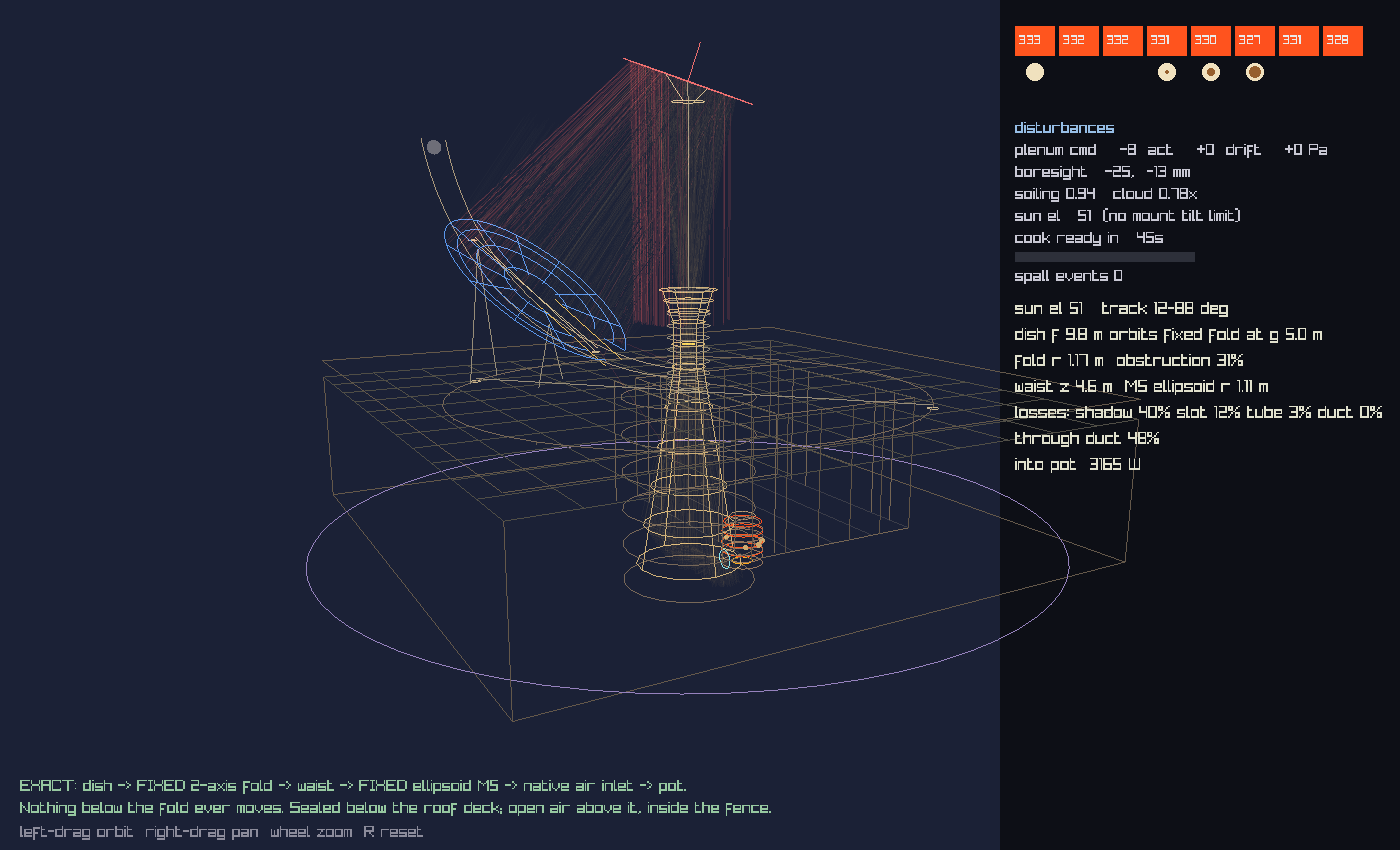
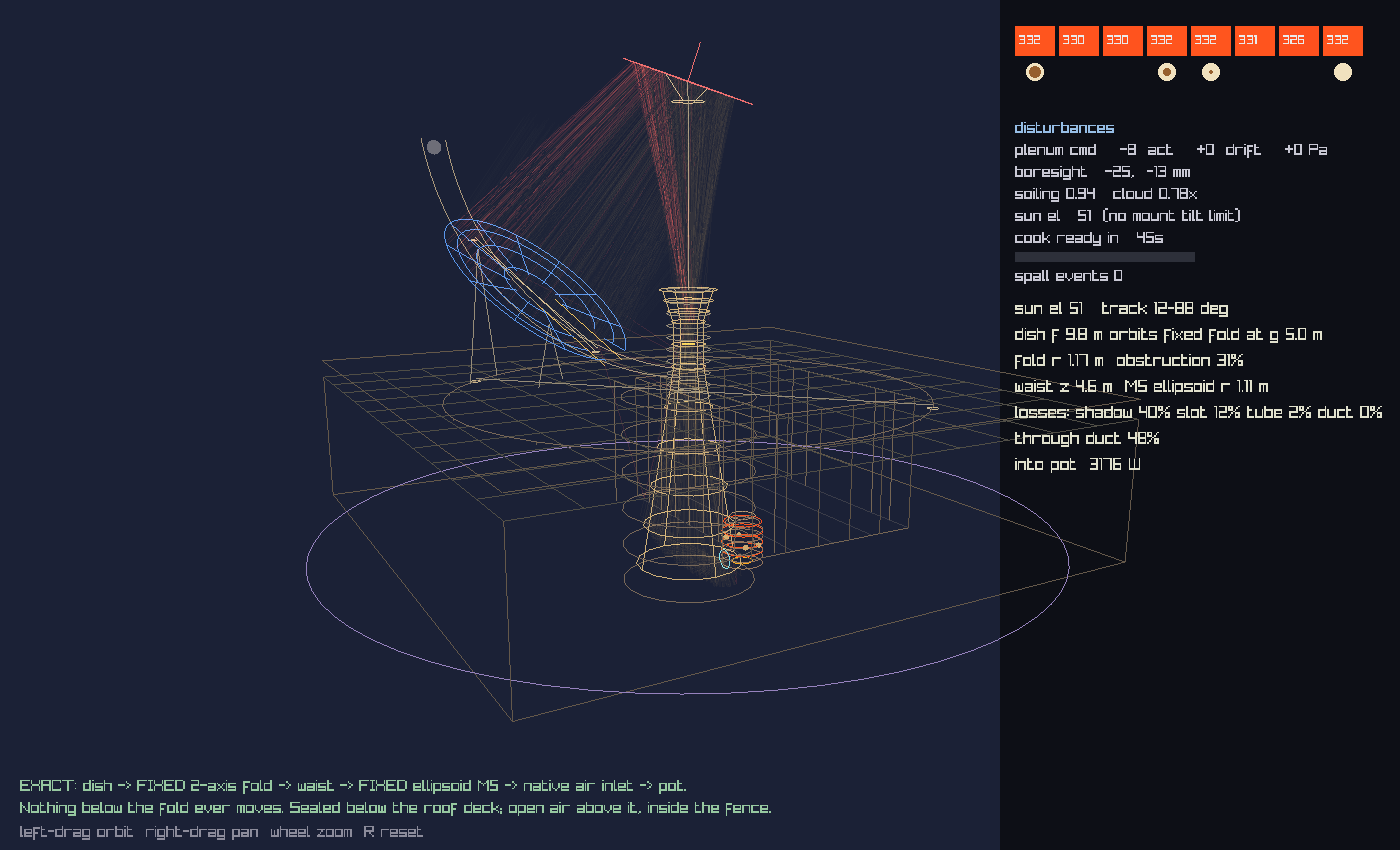
The red curtain was fabricated geometry; spill now follows real rays
The report: red rays running straight from the primary into the
tandoor, nothing down the CPC shaft, "the secondary is giving back
such a large beam". Diagnosis, in order:

1. THE CURTAIN WAS A DRAWING LIE. Rays dying at the tube gates were
   drawn as a fabricated VERTICAL STUB dropped from wherever they hit
   the fold - a 2.3 m wide curtain of geometry that never existed,
   reading exactly as "primary straight into the tandoor". The core
   now returns each ray's true position at the lip plane along its
   actual reflected direction, and spill is drawn on that path.

2. THE LARGE BEAM OFF THE FOLD IS REAL AND BY DESIGN. The plate is
   r=1.17 m, so the beam leaves it ~2 m wide and CONVERGES over 3.7 m
   of open air to 0.44 m at the pipe's lip. That is the 31%-obstruction
   geometry whose waist-position trade was swept and closed two
   commits ago - narrowing it anywhere loses system-wide.

3. NOTHING DOWN THE SHAFT because that frame was an untrained-policy
   eval: mistracked motors decenter the beam 2ef and the gates kill
   everything - the same red-curtain signature as before, now with
   honest geometry. Tracked (this commit's screenshot): through 48%,
   3176 W into the pot, gold down the shaft and sideways from M5 into
   the belly. Through-rays are drawn brighter than spill so the
   surviving beam reads against the red.

Changed region(s): [[0.3379, 0.0612, 0.5221, 0.4282], [0.9521, 0.0612, 0.9829, 0.0918], [0.8907, 0.0612, 0.9214, 0.0918]]

diff --git a/tutorials/tandoor_hashemi_env.py b/tutorials/tandoor_hashemi_env.py
@@ -296,8 +296,10 @@ def _geo_core(pts_l, nrm_l, lv, du, de, upick, sigb, Acan,
     dy = h3[..., 1] + off[:, 0:1]
     dz = h3[..., 2] - z_duct + off[:, 1:2]
     through_b = ok & (t3 > 0) & (dy ** 2 + dz ** 2 <= r_duct_h ** 2)
+    t_dsc = (z1_t - h1[..., 2]) / d2[..., 2].clamp(max=-1e-9)
+    desc = h1 + t_dsc[..., None] * d2
     return (through_b, w_ray, dy, dz, d3, ok, ok_pre_tube, ok_post_tube,
-            lit, in_slot, graze, rad1, p, h1, h2, h3)
+            lit, in_slot, graze, rad1, p, h1, h2, h3, desc)
 
 
 
@@ -707,7 +709,7 @@ class TandoorHashemiEnv(TandoorCoudeEnv):
             else:
                 raise
         (through_b, w_ray, dy, dz, d3, ok, ok_pre_tube, ok_post_tube,
-         lit, in_slot, graze, rad1, p, h1, h2, h3) = out
+         lit, in_slot, graze, rad1, p, h1, h2, h3, desc) = out
         through = through_b.float() * w_ray
         if self.render_mode == "human":
             self._ladder = dict(
@@ -727,6 +729,7 @@ class TandoorHashemiEnv(TandoorCoudeEnv):
                             ok=ok[0].cpu().numpy(),
                             ok_pre=ok_pre_tube[0].cpu().numpy(),
                             slot=in_slot[0].cpu().numpy(),
+                            desc=desc[0].cpu().numpy(),
                             through=through_b[0].cpu().numpy(),
                             u=u, el=el, az=float(az), C=C_dish)
         # into the pot via the SHARED polar binning; rigid map between the
@@ -1080,7 +1083,8 @@ class TandoorHashemiEnv(TandoorCoudeEnv):
             # every traced ray, additive; spill in red
             pr.begin_blend_mode(pr.BlendMode.BLEND_ADDITIVE)
             a_hi = int(4 + 20*dim)
-            cb, cd = (120, 88, 30, a_hi), (150, 40, 30, 55)
+            cb = (150, 112, 40, min(int(a_hi * 1.6), 255))
+            cd = (150, 40, 30, 42)
             ok, th = H["ok"], H["through"]
             fold, m5, duct = H["fold"], H["m5"], H["duct"]
             dish = H["dish"]
@@ -1095,12 +1099,14 @@ class TandoorHashemiEnv(TandoorCoudeEnv):
                 if not okp[i]:
                     continue
                 if not ok[i]:
-                    # died on the tube or the M5 bound: red to the fold,
-                    # then a red stub down the descent to the tube zone
+                    # died at the tube gates or the M5 bound: drawn along
+                    # its ACTUAL reflected path to the lip plane. (The
+                    # first version drew a fabricated vertical stub from
+                    # the fold hit - a 2.3 m wide curtain of geometry
+                    # that never existed, read as "rays going straight
+                    # from the primary into the tandoor".)
                     pr.draw_line_3d(v3(dish[i]), v3(fold[i]), cd)
-                    dz_ = fold[i] - np.array([0, 0,
-                                              fold[i][2] - self.z_tube[1]])
-                    pr.draw_line_3d(v3(fold[i]), v3(dz_), cd)
+                    pr.draw_line_3d(v3(fold[i]), v3(H["desc"][i]), cd)
                     continue
                 col = cb if th[i] else cd
                 pr.draw_line_3d(v3(dish[i]), v3(fold[i]), col)
